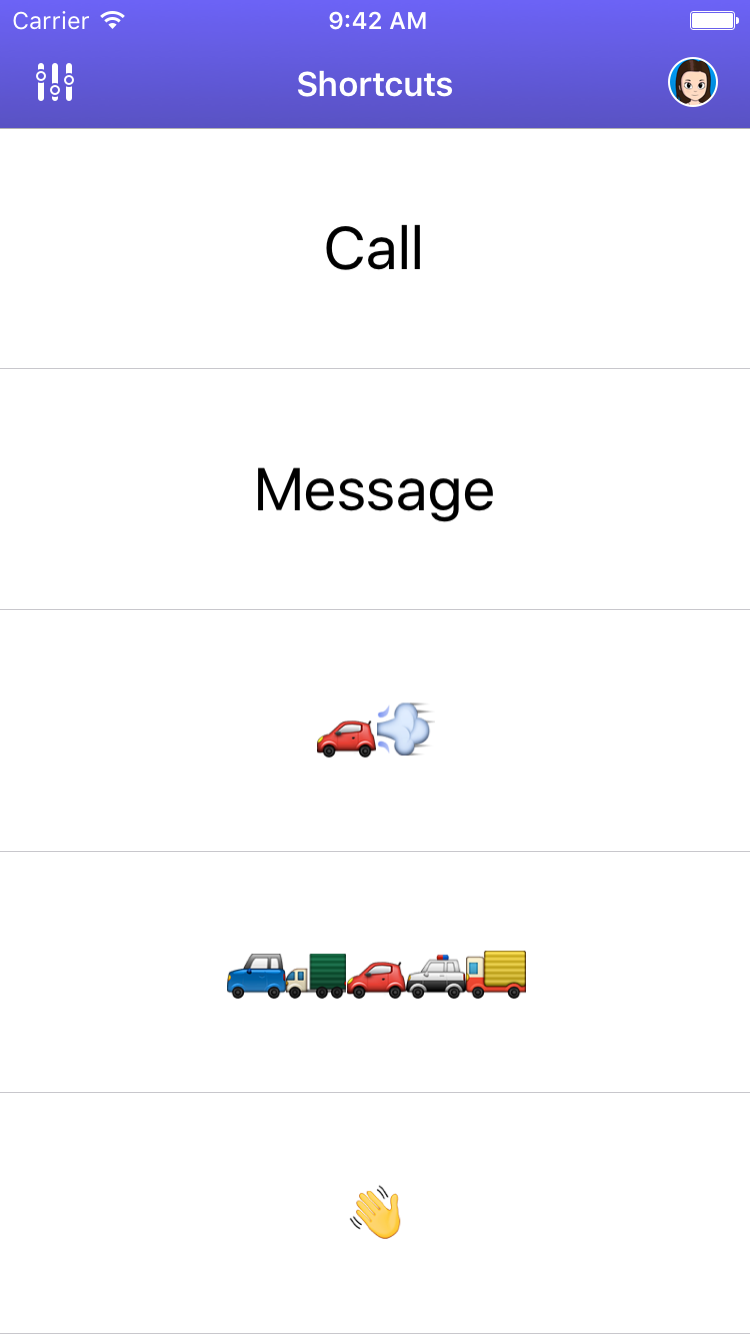
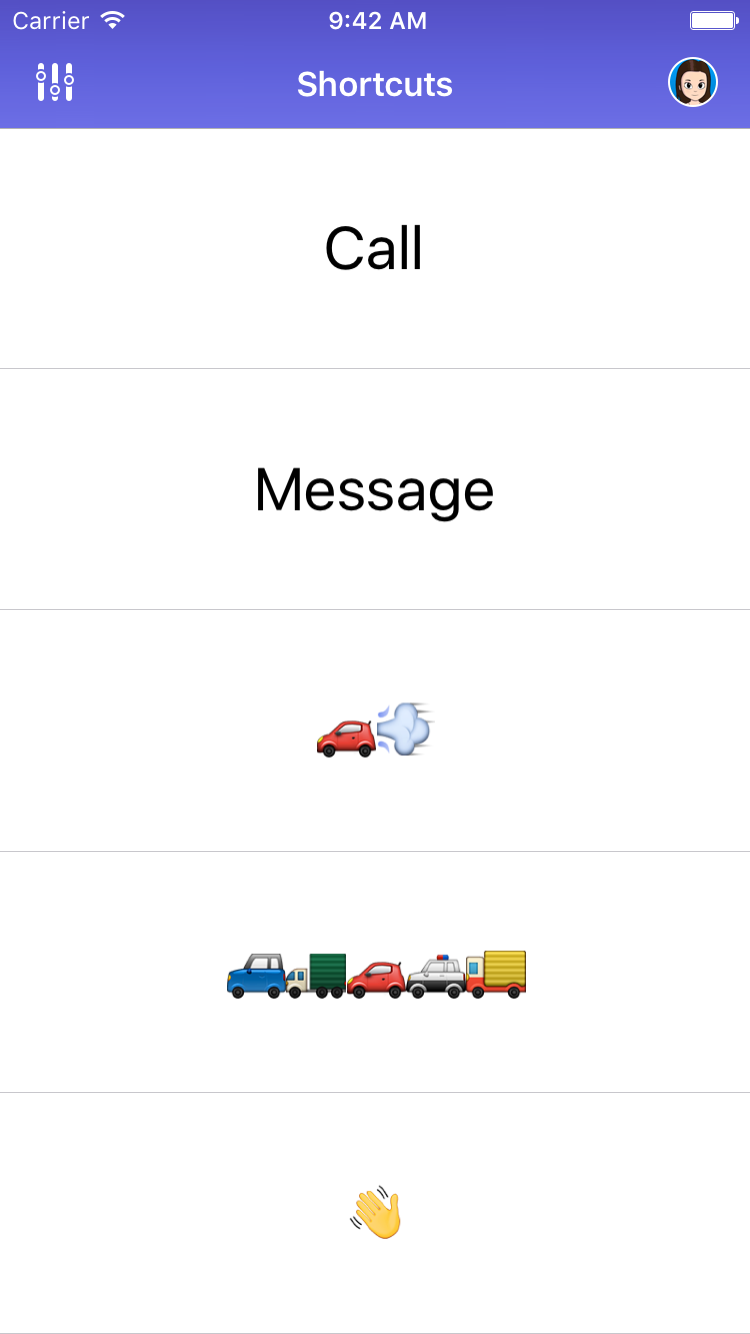
Adjust the header gradient.

Changed region(s): [[0.0, 0.0615, 1.0, 0.1229], [0.0, 0.0, 1.0, 0.0307]]

diff --git a/Shared/Extensions/UIImage.swift b/Shared/Extensions/UIImage.swift
@@ -9,21 +9,21 @@ extension UIImage {
 		var hue: CGFloat = 0
 		var saturation: CGFloat = 0
 		var brightness: CGFloat = 0
-		var alpha: CGFloat = 0
+		var alpha: CGFloat = 1
 
 		color.getHue(&hue, saturation: &saturation, brightness: &brightness, alpha: &alpha)
-		let topColor = UIColor(hue: hue, saturation: saturation, brightness: brightness + 0.2, alpha: alpha)
-		let bottomColor = UIColor(hue: hue, saturation: saturation, brightness: brightness - 0.02, alpha: alpha)
+		let topColor = UIColor(hue: hue + 0.01, saturation: saturation + 0.04, brightness: brightness - 0.095, alpha: alpha)
+		let bottomColor = UIColor(hue: hue, saturation: saturation - 0.05, brightness: brightness + 0.05, alpha: alpha)
 
-		let size = CGSize(width: 900, height: 900)
+		let size = CGSize(width: 20, height: 100 * UIScreen.mainScreen().scale)
 
 		UIGraphicsBeginImageContext(size)
 		let context = UIGraphicsGetCurrentContext()
 
 		let colorSpace = CGColorSpaceCreateDeviceRGB()
-		let locations: [CGFloat] = [0.0, 1.0]
+		let locations: [CGFloat] = [0.0, 0.5, 1.0]
 
-		let gradient = CGGradientCreateWithColors(colorSpace, [topColor.CGColor, bottomColor.CGColor], locations)
+		let gradient = CGGradientCreateWithColors(colorSpace, [topColor.CGColor, color.CGColor, bottomColor.CGColor], locations)
 
 		let startPoint = CGPointMake(size.width / 2, 0)
 		let endPoint = CGPointMake(size.width / 2, size.height)

diff --git a/Shared/PreferencesManager.swift b/Shared/PreferencesManager.swift
@@ -38,7 +38,7 @@ class PreferencesManager {
 	/// Convenience endpoint for accessing the user-stored tintColor, which falls back to a default.
 	class var tintColor: UIColor {
 		get {
-			return PreferencesManager.sharedManager?.tintColor ?? UIColor(red:0.29,  green:0.259,  blue:0.761, alpha:1)
+			return PreferencesManager.sharedManager?.tintColor ?? UIColor(hue:0.664, saturation:0.636, brightness:0.839, alpha:1)
 		}
 	}
 
